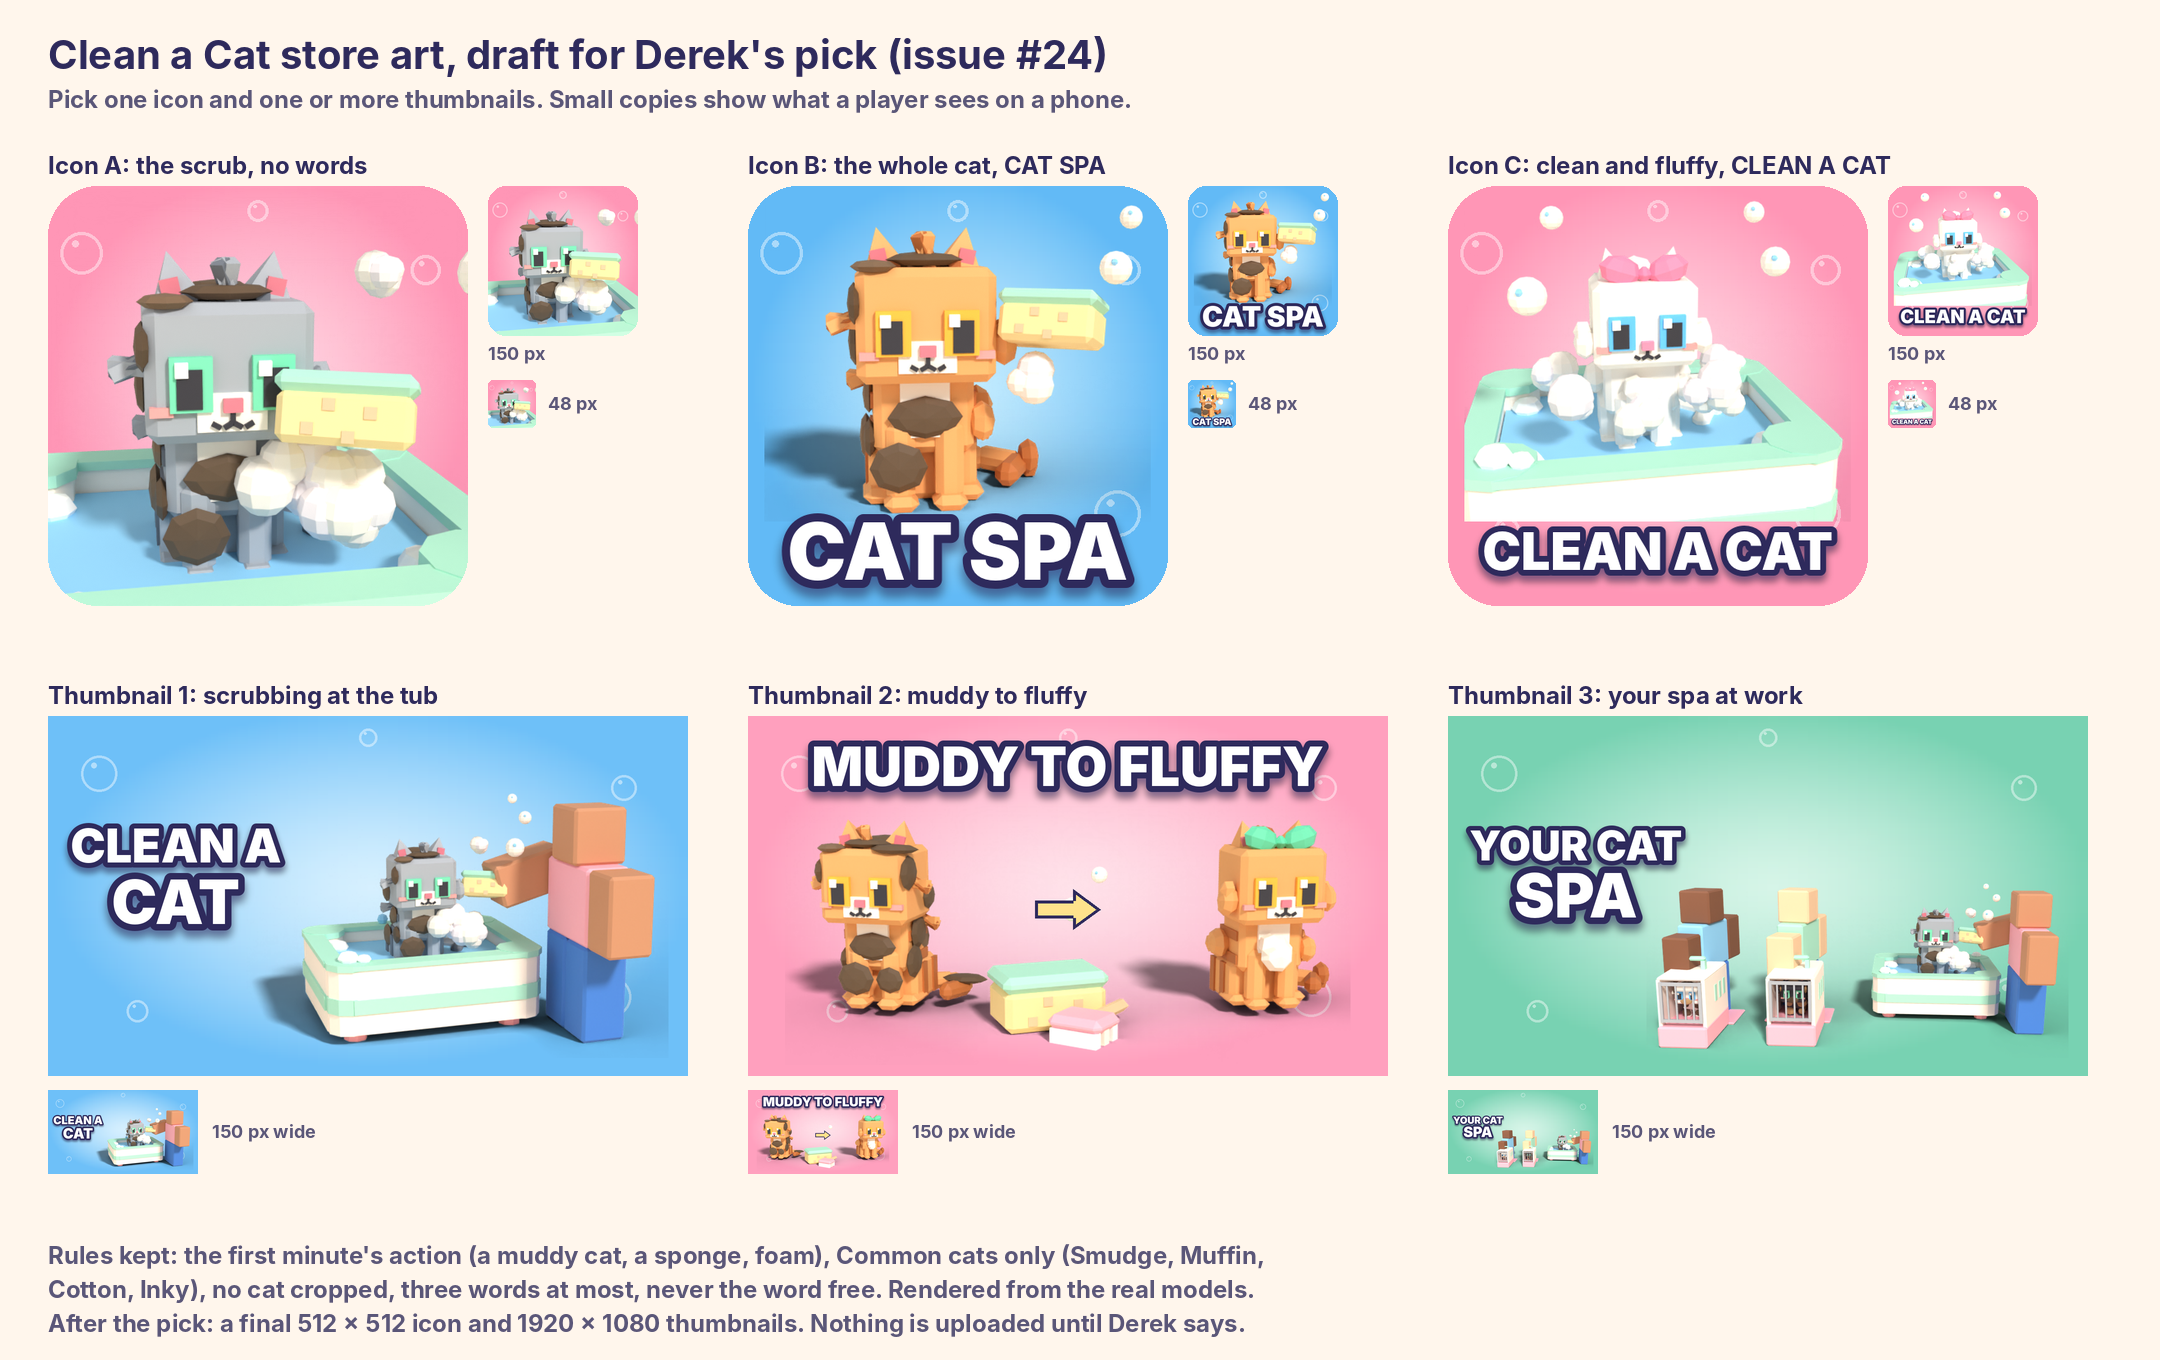
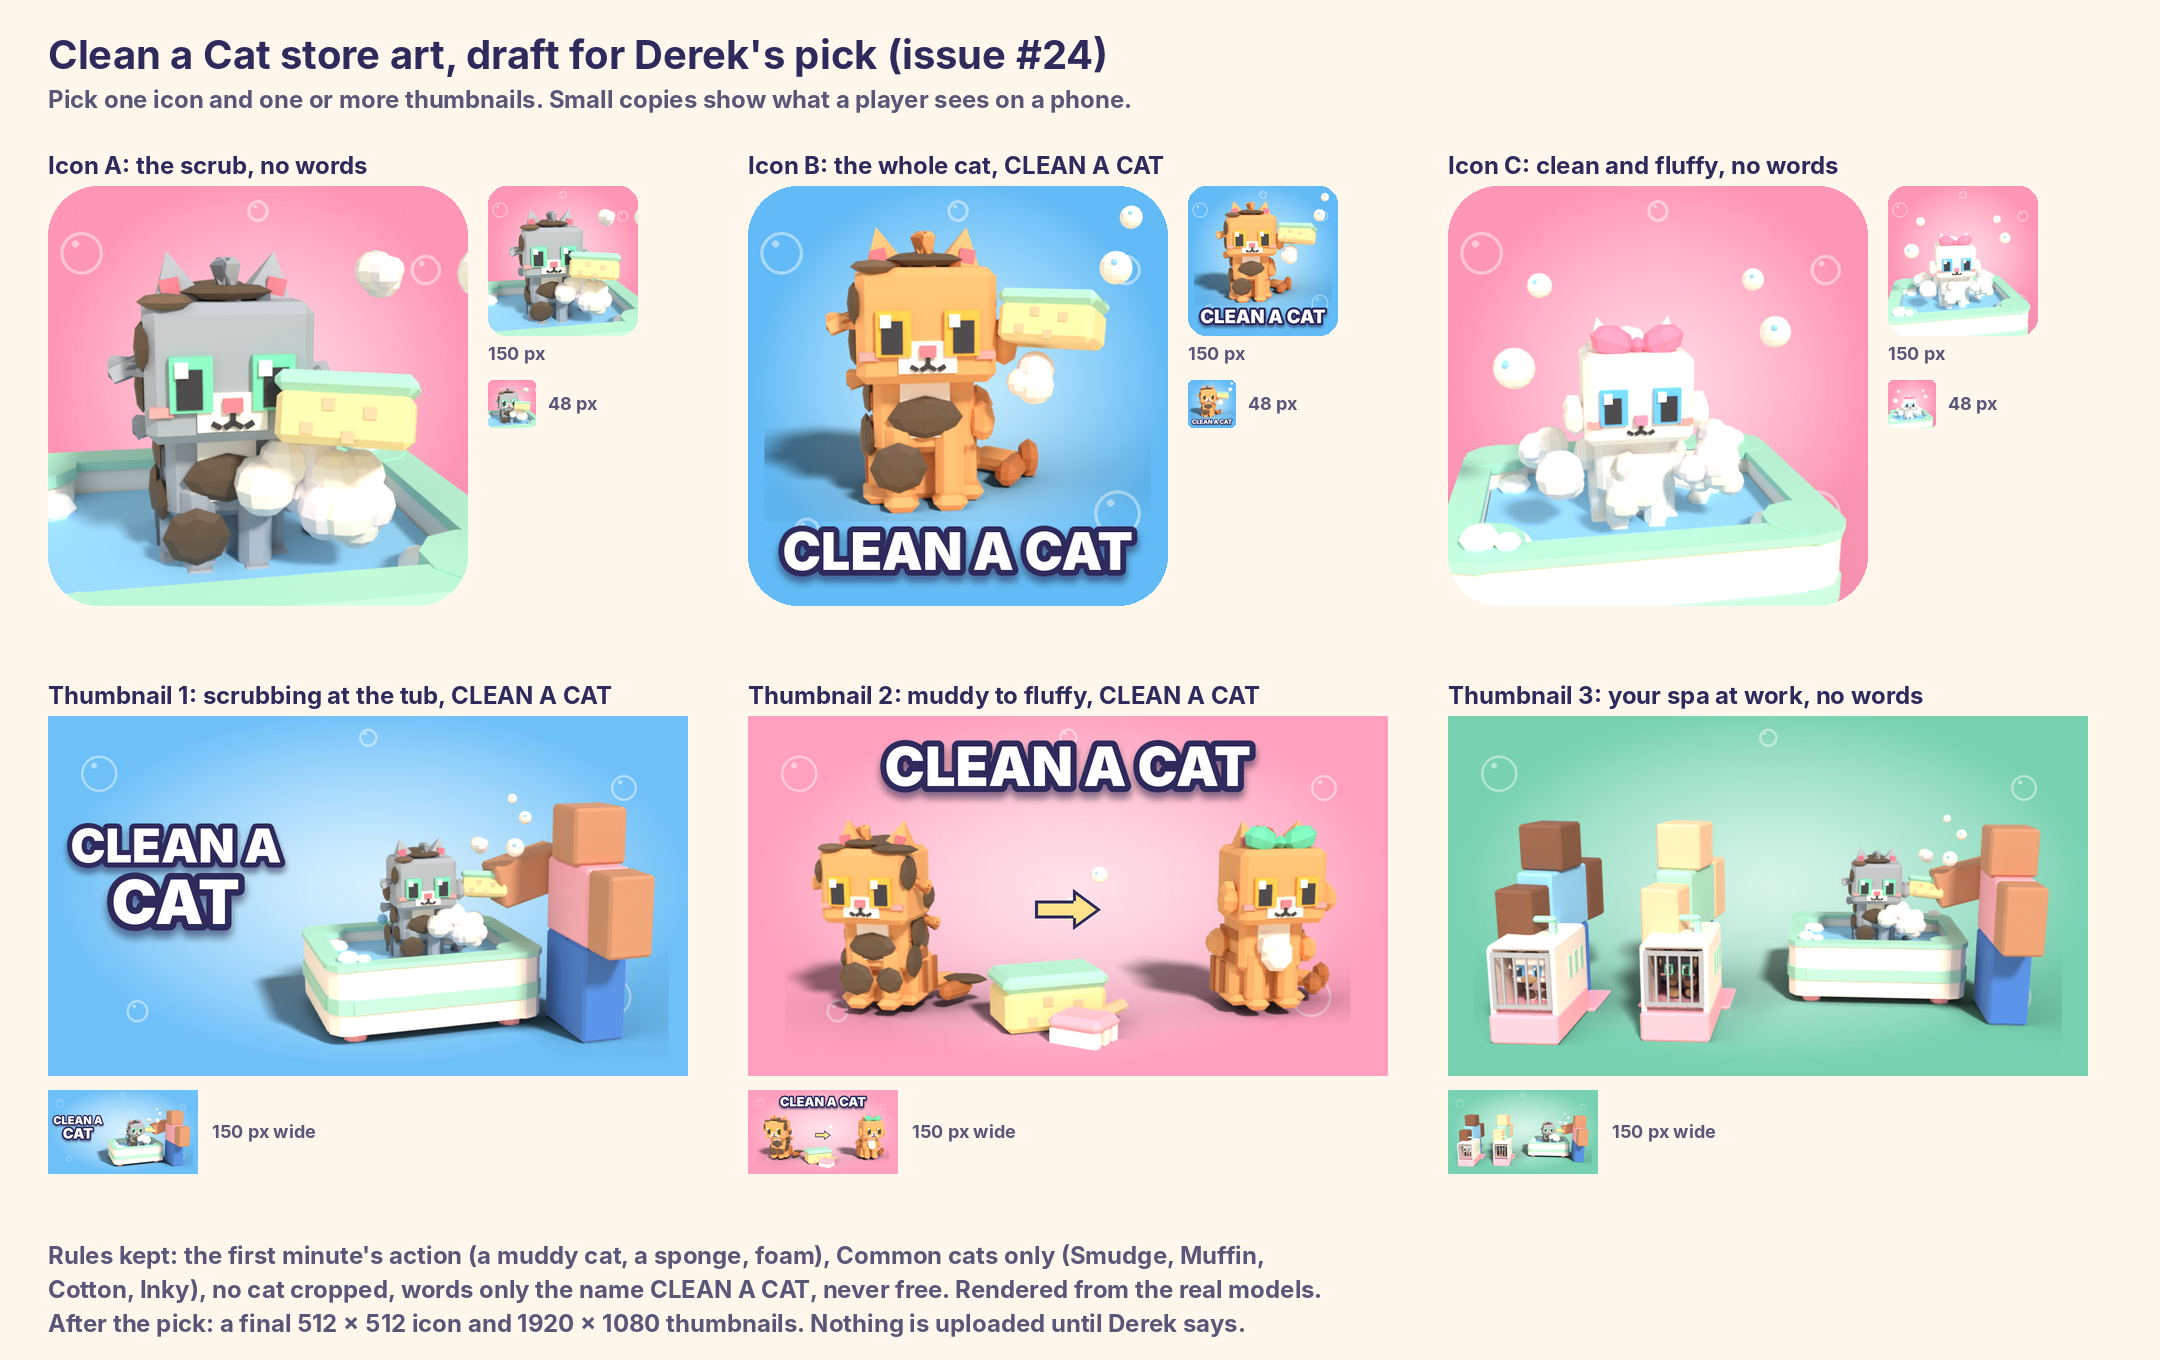
Store art: the only words are the game's name (#24)
Icon B and thumbnail 2 now say CLEAN A CAT; icon C and thumbnail 3 have no
words. CAT SPA and YOUR CAT SPA are gone: the name is Clean a Cat.

Claude-Session: https://claude.ai/code/session_01DW2up3E6M21fYJtCcCtEdr

diff --git a/assets/clean-a-cat/blender/store_compose.py b/assets/clean-a-cat/blender/store_compose.py
@@ -4,7 +4,7 @@ makes the draft sheet with each option shown at its real size and at the small s
     python3 assets/clean-a-cat/blender/store_compose.py <raw folder> <out folder> [sheet.png] [--final]
 
 Plain Python with Pillow (not Blender). Fonts: Inter Black from the system (`fc-list | grep "Inter Black"`); swap
-FONT for the game's UI font once the ui-designer picks one. Words: three at most, huge, high contrast, never "free".
+FONT for the game's UI font once the ui-designer picks one. Words: the game's name CLEAN A CAT or none, huge, high contrast, never "free".
 """
 
 import os
@@ -21,19 +21,19 @@ BUTTER = (255, 226, 140)
 # key: (kind, backdrop inner, backdrop outer, words, where the words go)
 OPTIONS = {
     "icon-a": ("icon", (255, 214, 226), (255, 150, 182), None, None),
-    "icon-b": ("icon", (196, 236, 255), (98, 186, 246), "CAT SPA", "bottom"),
-    "icon-c": ("icon", (255, 214, 226), (255, 150, 182), "CLEAN A CAT", "bottom"),
+    "icon-b": ("icon", (196, 236, 255), (98, 186, 246), "CLEAN A CAT", "bottom"),
+    "icon-c": ("icon", (255, 214, 226), (255, 150, 182), None, None),
     "thumb-1": ("thumb", (214, 240, 255), (110, 192, 248), "CLEAN A CAT", "left"),
-    "thumb-2": ("thumb", (255, 226, 234), (255, 160, 190), "MUDDY TO FLUFFY", "top"),
-    "thumb-3": ("thumb", (214, 245, 232), (120, 210, 178), "YOUR CAT SPA", "left"),
+    "thumb-2": ("thumb", (255, 226, 234), (255, 160, 190), "CLEAN A CAT", "top"),
+    "thumb-3": ("thumb", (214, 245, 232), (120, 210, 178), None, None),
 }
 TITLES = {
     "icon-a": "Icon A: the scrub, no words",
-    "icon-b": "Icon B: the whole cat, CAT SPA",
-    "icon-c": "Icon C: clean and fluffy, CLEAN A CAT",
-    "thumb-1": "Thumbnail 1: scrubbing at the tub",
-    "thumb-2": "Thumbnail 2: muddy to fluffy",
-    "thumb-3": "Thumbnail 3: your spa at work",
+    "icon-b": "Icon B: the whole cat, CLEAN A CAT",
+    "icon-c": "Icon C: clean and fluffy, no words",
+    "thumb-1": "Thumbnail 1: scrubbing at the tub, CLEAN A CAT",
+    "thumb-2": "Thumbnail 2: muddy to fluffy, CLEAN A CAT",
+    "thumb-3": "Thumbnail 3: your spa at work, no words",
 }
 
 
@@ -111,7 +111,10 @@ def compose(key, raw_dir, final=False):
     w, h = size
     bg = backdrop(size, inner, outer)
     art = crop_to_content(raw)
-    if where == "left":                                           # words on the left third, art on the right
+    if not text:                                                  # no words: the art fills the frame
+        art = fit(art, w * 0.92, h * 0.9)
+        bg.alpha_composite(art, ((w - art.width) // 2, int(h * 0.95 - art.height)))
+    elif where == "left":                                         # words on the left third, art on the right
         art = fit(art, w * 0.66, h * 0.86)
         bg.alpha_composite(art, (int(w * 0.97 - art.width), int(h * 0.95 - art.height)))
         parts = text.split()
@@ -175,7 +178,7 @@ def sheet(made, out):
         sh.alpha_composite(sm, (x, y + 410))
         label(d, (x + 164, y + 440), "150 px wide", 18, (90, 86, 120))
     notes = ["Rules kept: the first minute's action (a muddy cat, a sponge, foam), Common cats only (Smudge, Muffin,",
-             "Cotton, Inky), no cat cropped, three words at most, never the word free. Rendered from the real models.",
+             "Cotton, Inky), no cat cropped, words only the name CLEAN A CAT, never free. Rendered from the real models.",
              "After the pick: a final 512 x 512 icon and 1920 x 1080 thumbnails. Nothing is uploaded until Derek says."]
     for j, n in enumerate(notes):
         label(d, (48, 1240 + 34 * j), n, 24, (90, 86, 120))

diff --git a/docs/concepts/clean-a-cat/README.md b/docs/concepts/clean-a-cat/README.md
@@ -29,4 +29,4 @@ HUD source page: `assets/clean-a-cat/ui/hud.html`. Plans: issues #5 (first sessi
 - `2026-11-23-vip-building.png`: the VIP Room while it is being built, seen from above the back yard. The tarp is pulled back on one side, showing the wooden frame and the half-built pink walls. 2026-11-23.
 - `2026-11-23-cat-index-sheet.png`: the first Cat Index in its order. Each of the ten cats sits on a tile in its rarity colour (grey Common, green Uncommon, blue Rare, purple Epic, gold Legendary), clean in front and dirty behind, with dusty mud on the dark fur. Each column is about phone index card size. 2026-11-23.
 - `2026-11-23-later-stations.png`: the #23 stations, each with an avatar beside it: the bubble bath with a cat in the foam under the spout, and the pawdicure with a cat on the cushion showing its long white claws. Cats at the stations' 1.5 scale. 2026-11-23.
-- `2026-11-23-store-art-draft.png`: the store art draft for Derek's pick (#24). It has three icons (A the scrub with no words, B the whole cat with CAT SPA, C clean and fluffy with CLEAN A CAT) and three thumbnails (scrubbing at the tub, muddy to fluffy, your spa at work). Each is shown at 150 px, and each icon also at 48 px. Common cats only. 2026-11-23.
+- `2026-11-23-store-art-draft.png`: the store art draft for Derek's pick (#24). It has three icons (A the scrub, B the whole cat with CLEAN A CAT, C clean and fluffy) and three thumbnails (scrubbing at the tub and muddy to fluffy, both with CLEAN A CAT, and your spa at work). The only words are the game's name. Each is shown at 150 px, and each icon also at 48 px. Common cats only. 2026-11-23.

diff --git a/assets/clean-a-cat/blender/README.md b/assets/clean-a-cat/blender/README.md
@@ -38,7 +38,7 @@ Flags: `--only Smudge,Tux` (name fragments; a partial build leaves the manifest 
 | `vip.py` | the VIP Room before it is built (#21): the locked look (door, sign `Screen`, tarp over scaffold) and the building look (frame half up) at `SpotVipDoor` |
 | `coat_table.py` | the coat table (#22): `rbx/CleanACat_CoatTable.json`, read in game as `ReplicatedStorage.Assets.CleanACat_CoatTable` (rarity, index order, colours and model names per cat) |
 | `store_art.py` | store art (#24): the raw icon and thumbnail shots from the real models, with a see-through background and shadows (`store_art.py <folder> [names] [--final]`) |
-| `store_compose.py` | store art (#24), plain Python with Pillow: backdrops, the words, the 512 icon and 1280 or 1920 thumbnails, and the draft sheet with 150 and 48 px checks |
+| `store_compose.py` | store art (#24), plain Python with Pillow: backdrops, the game's name as the only words, the 512 icon and 1280 or 1920 thumbnails, and the draft sheet with 150 and 48 px checks |
 | `customers.py` | the customers' accessories for the R15 rig and the four looks (`LOOKS`, #16) |
 | `props.py` | the three bows (#14) with their `BowSlot` attachment, and the hook for props built into a cat (the builder's hat, #20) |
 | `scenes.py` | scene pictures for review, with a stand-in avatar for scale (`scenes.py tub <out.png>`, `groom`, `groom-close`, `plot <folder>` for the five plot views, or `customers`, `later` for the #23 stations); exports nothing |
